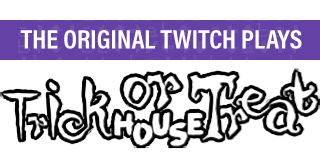
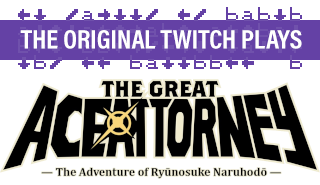
GAA Update

diff --git a/description/active/runs/02 Commands.md b/description/active/runs/02 Commands.md
@@ -1,9 +1,13 @@
 For questions about any **!** command, use **!help \[command name\]** to be whispered by the bot for more info. Example: **!help a**. For a full list of commands, type **!commands**. Alternatively, go [here](https://twitchplayspokemon.tv/commands) for an in-depth explanation of all commands available on stream.
 
+## Touchscreen Commands
+
+You can use **>** for coordinates to drag the touchscreen \(**0,0>100,100**\). Coordinates can be held down \(**20,234-**\), as well as combining them into to a regular command \(**40,70+a**\). Touchscreen commands cannot combine with themselves. The [TPPInputAssist Touchscreen Extension](https://github.com/chfoo/tppinputassist), made by Chfoo, can be used to make tapping in specific places of the screen easier by using your mouse, instead of having to type out the coordinates. Screen resolution is 320x240.
+
 ## Available Commands
 
-- **Button commands**: **A, B, L, R, Start, Select**
-- **Directional commands**: **Up, Down, Left, Right**
+- **Button commands**: **A, B, X, Y, L, R, ZL, ZR, Start, Select**
+- **Directional commands**: **Up, Down, Left, Right, Dup, DDown, DLeft, DRight, CUp, CDown, Cleft, CRight**
 
 ## Tips
 - Commands are not case sensitive - you can mix it up! For example, **StArT** will have the same effect as **start**.

diff --git a/description/active/runs/01 Header.md b/description/active/runs/01 Header.md
@@ -2,10 +2,6 @@ For questions about any **!** command, use **!help \[command name\]** to be whis
 
 The stream clock is in the UTC timezone, you can use [this](https://time.is/UTC) to calculate your delay.
 
-In Twitch Plays Pokémon \(TPP\), you can submit commands through the chat box and control the current game of **Pokémon Trick or Treat House 2020**, a hack with custom Trick House puzzles made by the community specifically for the stream!
-
-**Credits for this run go to:**
-- Tustin2121 - Hack creator
-- The community - Level design
+In Twitch Plays Pokémon \(TPP\), you can submit commands through the chat box and control the current game of **The Great Ace Attorney: The Adventure of Ryūnosuke Naruhodō**.
 
 ***Note:*** *TPP collects and uses some data about your Twitch account so you can play. Find out what data we collect, how we collect it, and what we use it for by reading our privacy statement [here](https://github.com/TwitchPlaysPokemon/tpp-streamdocs/blob/master/privacy/privacy-statement.md).*
